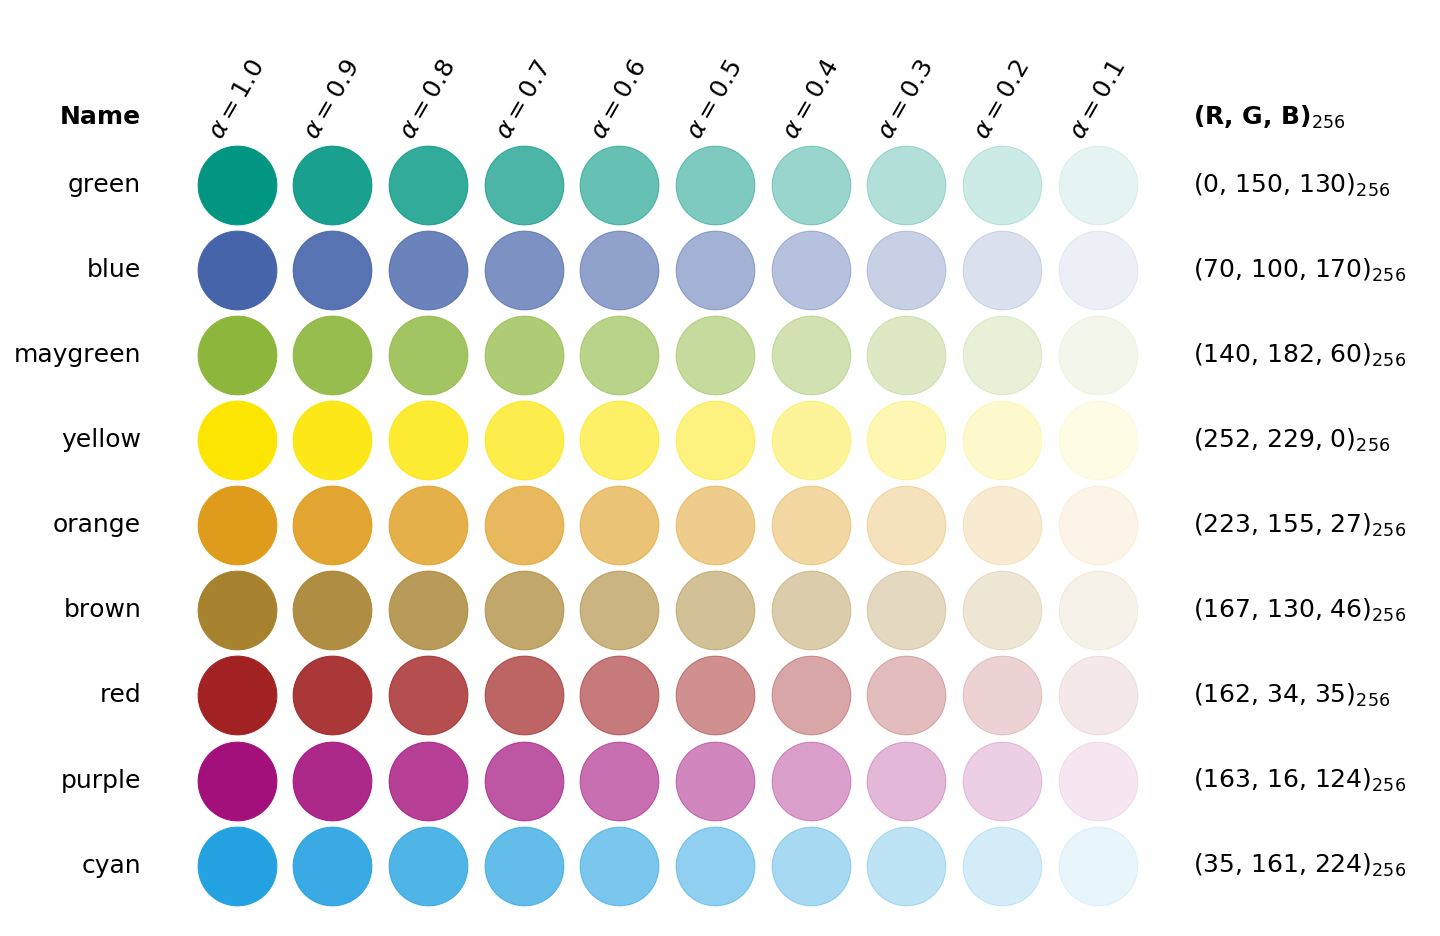
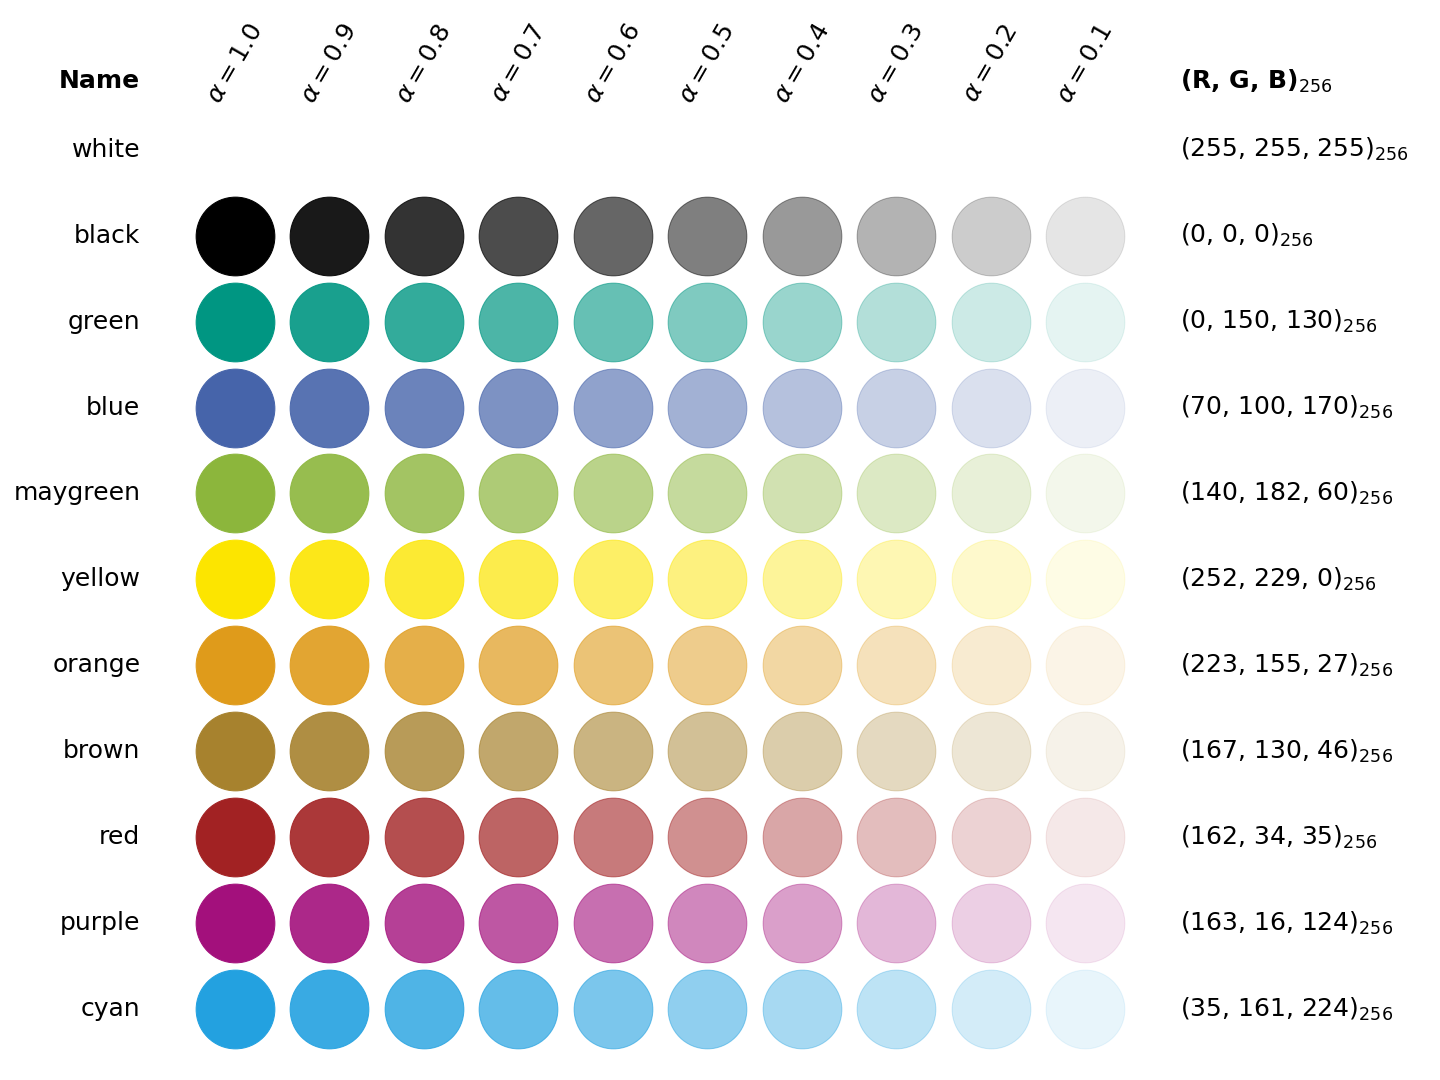
Now including white and black. Wow.

diff --git a/__init__.py b/__init__.py
@@ -1,3 +1,27 @@
+white       = (1.0000000000, 1.0000000000, 1.0000000000, 1.0)
+white10     = (1.0000000000, 1.0000000000, 1.0000000000, 0.1)
+white20     = (1.0000000000, 1.0000000000, 1.0000000000, 0.2)
+white30     = (1.0000000000, 1.0000000000, 1.0000000000, 0.3)
+white40     = (1.0000000000, 1.0000000000, 1.0000000000, 0.4)
+white50     = (1.0000000000, 1.0000000000, 1.0000000000, 0.5)
+white60     = (1.0000000000, 1.0000000000, 1.0000000000, 0.6)
+white70     = (1.0000000000, 1.0000000000, 1.0000000000, 0.7)
+white80     = (1.0000000000, 1.0000000000, 1.0000000000, 0.8)
+white90     = (1.0000000000, 1.0000000000, 1.0000000000, 0.9)
+white100    = (1.0000000000, 1.0000000000, 1.0000000000, 1.0)
+
+black       = (0.0000000000, 0.0000000000, 0.0000000000, 1.0)
+black10     = (0.0000000000, 0.0000000000, 0.0000000000, 0.1)
+black20     = (0.0000000000, 0.0000000000, 0.0000000000, 0.2)
+black30     = (0.0000000000, 0.0000000000, 0.0000000000, 0.3)
+black40     = (0.0000000000, 0.0000000000, 0.0000000000, 0.4)
+black50     = (0.0000000000, 0.0000000000, 0.0000000000, 0.5)
+black60     = (0.0000000000, 0.0000000000, 0.0000000000, 0.6)
+black70     = (0.0000000000, 0.0000000000, 0.0000000000, 0.7)
+black80     = (0.0000000000, 0.0000000000, 0.0000000000, 0.8)
+black90     = (0.0000000000, 0.0000000000, 0.0000000000, 0.9)
+black100    = (0.0000000000, 0.0000000000, 0.0000000000, 1.0)
+
 green       = (0.0000000000, 0.5882352941, 0.5098039216, 1.0)
 green10     = (0.0000000000, 0.5882352941, 0.5098039216, 0.1)
 green20     = (0.0000000000, 0.5882352941, 0.5098039216, 0.2)
